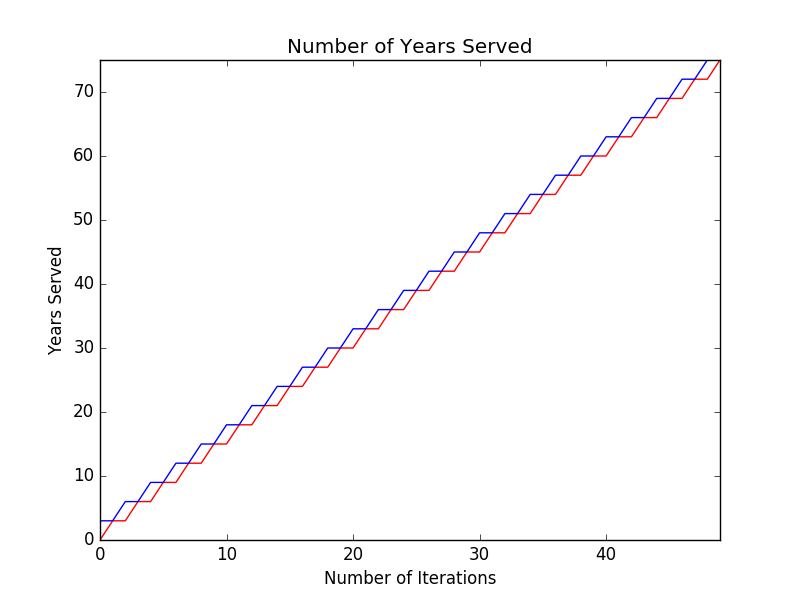
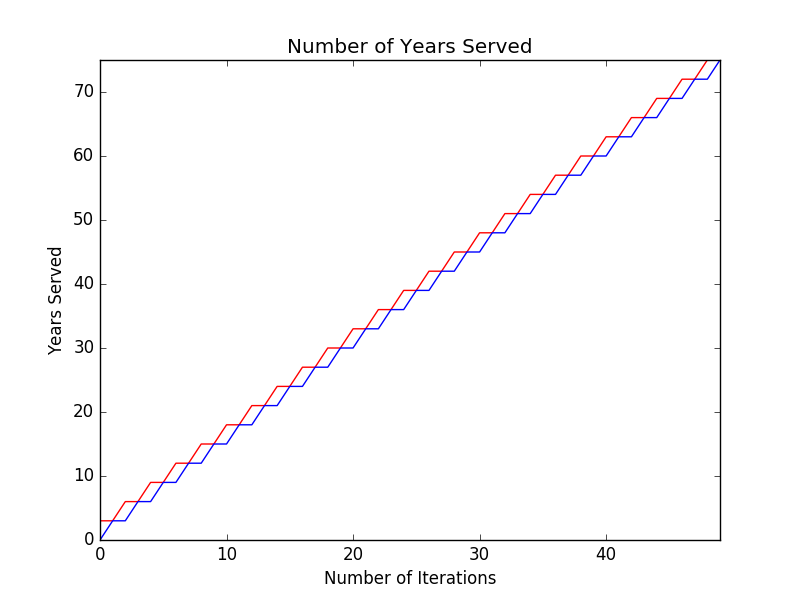
Initial

diff --git a/agent_based_grid_project.py b/agent_based_grid_project.py
@@ -10,6 +10,50 @@ from time_step_scrolling import *
 
 start_time = time.time()
 
+# Due date = Thursday April
+# This project and the prisoner's dilemma constitute all of Ch. 11
+# This project is to model changes in land use as a new highway is built near a town
+# This program should run for several years to observe trends in movement
+
+
+# Generate town (size of 40 blocks)
+# generate streets - use a standard block size of 150 meters on a side -- to keep it simple make this a basic grid
+# generate a railway that runs near town center
+# generate some businesses - retail, industrial, restauraunts, convenience stores with fuel (add your own?) These should be near the town's center
+# industrial businesses are concentrated by the rail line
+# industrial businesses can occupy more than one block
+# generate 4 elementary (uniform distribution), 2 middle (north and south), and 1 high school (near center)
+# generate a small college campus that occupies 7 square blocks on edge of town
+# generate a city park near the center of town
+# generate residential housing (multi-family and single family)
+#
+
+# Generate new highway location - note it will cut through the town but not too close to town center
+# Make it an average of 12 blocks from the town center with a standard deviation of 3 blocks
+# Make it on the same side of town as the college campus
+
+#Display the grid
+
+
+# agents
+# business owners (separate out by business type)
+# residents (resident types you define)
+
+# rules for agents
+#
+
+
+
+
+
+
+
+
+
+
+
+
+
 BETRAY = 0
 COOP = 1
 NOTHING = 2
@@ -20,16 +64,18 @@ P = 2
 S = 3
 
 def main():
-    N = 5  #number of iterations of prisoner's dilemma
+    N = 50  #number of iterations of prisoner's dilemma
 
-    prob_betray_A = 1.0
-    prob_betray_B = 0.0
+    prob_betray_A_mean = 0.4
+    prob_betray_A_std = 0.2
+    prob_betray_B_mean = 0.6
+    prob_betray_B_std = 0.1
 
-    if random() > prob_betray_A:
+    if box_muller(prob_betray_A_mean, prob_betray_A_std) < 0.5:
         A = COOP
     else:
         A = BETRAY
-    if random() > prob_betray_B:
+    if box_muller(prob_betray_B_mean,prob_betray_B_std) < 0.5:
         B = COOP
     else:
         B = BETRAY
@@ -49,7 +95,10 @@ def main():
     years_served_B = [sumB]
 
     for i in range(1,N):
-        newA = prisoner[i-1,1] #classic solution - tit for tat reciprocate other persons response from last time
+        #modify so that some fraction of time the game is altered...
+        #if
+
+        newA = prisoner[i-1,1]
         newB = prisoner[i-1,0]
         prisoner[i,0]=newA
         prisoner[i, 1] = newB
@@ -78,10 +127,7 @@ def main():
     y1label = "Years Served A"
     y2label = "Years Served B"
 
-
     TwoLineColorsPlot111(range(N),years_served_A,y1label,years_served_B,y2label,xlabel,ylabel,title,filename)
-
-
 
     """
     #cmap1 = LinearSegmentedColormap.from_list("my_map", cdict1, 3)
@@ -102,6 +148,13 @@ def years_served(A,B):
     else:
         return P
 
+def box_muller(mu,sigma):
+    a = uniform(0, 2 * pi)  # a param of Box Muller
+    tmp = random()  # rand 0-1
+    b = sigma * sqrt(-2 * log(tmp))  # b param of Box Muller
+    gauss_rand1 = b * sin(a) + mu  # sample from dist. (first of two)
+    #gauss_rand2 = b * cos(a) + mu  # sample from dist. (second of two)
+    return gauss_rand1
 
 if __name__ == '__main__':
     main()
